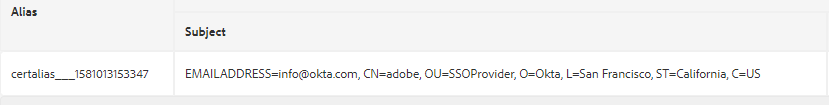
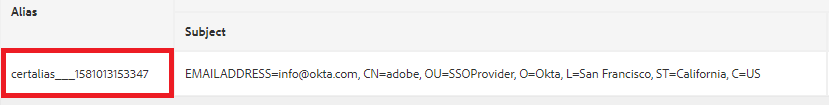
changes as requested by the CZAR

Changed region(s): [[0.0, 0.4571, 0.2111, 0.9429]]

diff --git a/help/forms/adaptive-forms/single-sign-on-with-okta.md b/help/forms/adaptive-forms/single-sign-on-with-okta.md
@@ -1,13 +1,11 @@
 ---
 title: Configuring OKTA with AEM
-seo-title: Configuring oKTA with AEM
-description: Configuring OKTA with AEM
-seo-description: Configuring OKTA with AEM
+description: Understand various configuration settings for using single sign-on using okta
 feature: administration
-topics: development
+topics: development, authentication, security
 audience: developer
 doc-type: tutorial
-activity: understand
+activity: setup
 version: 6.5
 ---
 
@@ -15,12 +13,12 @@ version: 6.5
 
 The first step is to configure your app on OKTA portal. Once your app is approved by your OKTA administrator you will have access to IdP certificate and single sign on URL.
 
-* **Application Name:** This is your application name. Make sure you give a unique name to your application
+* **Application Name:** This is your application name. Make sure you give a unique name to your application.
 * **SAML Recipient:** After authentication from OKTA, this is the URL which would be hit on your AEM instance with the SAML response. SAML authentication handler normally intercepts all the URL'S with / saml_login but it would be preferable to append it after your application root.
-* **SAML Audience**: This is the domain URL of your application. Do not use http or https
-* **SAML Name ID:** Select Email from the drop down list
-* **Environment**: Choose your appropriate environment
-* **Attributes**: These are the attributes you get about the user in the SAML response. Specify them as per your needs
+* **SAML Audience**: This is the domain URL of your application. Do not use protocol(http or https) in the domain URL.
+* **SAML Name ID:** Select Email from the drop down list.
+* **Environment**: Choose your appropriate environment.
+* **Attributes**: These are the attributes you get about the user in the SAML response. Specify them as per your needs.
 
 
 ![okta-application](assets/okta-app-settings.PNG)
@@ -30,25 +28,23 @@ The first step is to configure your app on OKTA portal. Once your app is approve
 
 Since the SAML assertions are encrypted, we need to add the IdP certificate to the AEM trust store.
 [Initialize trust store](http://localhost:4502/libs/granite/security/content/truststore.html), if not initialized already.
-Remember the trust store password. We will need to use this password later in this process
-
-Navigate to [Global Trust Store](http://localhost:4502/libs/granite/security/content/truststore.html)
-Click on "Add Certificate from CER file". Add the IdP certificate provided by OKTA and click submit.
->[!NOTE]
+Remember the trust store password. We will need to use this password later in this process.
+* Navigate to [Global Trust Store](http://localhost:4502/libs/granite/security/content/truststore.html).
+* Click on "Add Certificate from CER file". Add the IdP certificate provided by OKTA and click submit.
+* >[!NOTE]
 Please do not map the certificate to any user
 
  On adding the certificate to trust store you should get certificate alias as shown in the screen shot below. The alias name could be different in your case.
 
 ![Certificate-alias](assets/cert-alias.PNG)
-Make a note of the certificate alias. You will need this in the later steps
-
+**Make a note of the certificate alias. You will need this in the later steps.**
 
 ### Configure SAML authentication handler
 
-Navigate to [configMgr](http://localhost:4502/system/console/configMgr)
-Search and open "Adobe Granite SAML 2.0 Authentication Handler"
+Navigate to [configMgr](http://localhost:4502/system/console/configMgr).
+Search and open "Adobe Granite SAML 2.0 Authentication Handler".
 Provide the following properties as specified below
-The following are the key properties that need to be specified
+The following are the key properties that need to be specified:
 
 * **path** - This is the path where the authentication handler will be triggered
 * **IdP Url**:This is your IdP url which is provided by OKTA
@@ -68,8 +64,8 @@ The following are the key properties that need to be specified
 
 ### Configure Apache Sling Referrer Filter
 
-Navigate to [configMgr](http://localhost:4502/system/console/configMgr)
-Search and open "Apache Sling Referrer Filter"
+Navigate to [configMgr](http://localhost:4502/system/console/configMgr).
+Search and open "Apache Sling Referrer Filter".Set the following properties as specified below:
 
 * **Allow Empty**: true
 * **Allow Hosts**: IdP's hostname(Will be different in your case)
@@ -78,14 +74,17 @@ The Sling Referrer Filter Referrer properties screenshot
 
 ![referrer-filter](assets/sling-referrer-filter.PNG)
 
-#### Configure Logger
+#### Configure DEBUG Logging for the OKTA integration
 
+When setting up the OKTA integration on AEM, it can be helpful to review DEBUG logs for AEM's SAML Authentication handler. To set the log level to DEBUG, create a new Sling Logger configuration via the AEM OSGi Web Console.
+**Remember to remove or disable this logger on Stage and Production to reduce log-noise.**
 * Navigate to [configMgr](http://localhost:4502/system/console/configMgr)
+
 * Search and open "Apache Sling Logging Logger Configuration"
 * Create a logger with the following configuration:
-  * Log Level: Debug
-  * Log File: logs/saml.log
-  * Logger: com.adobe.granite.auth.saml
+  * **Log Level**: Debug
+  * **Log File**: logs/saml.log
+  * **Logger**: com.adobe.granite.auth.saml
 * Click on save to save your settings
 
 
